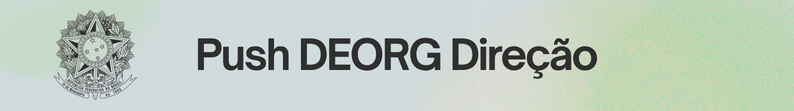
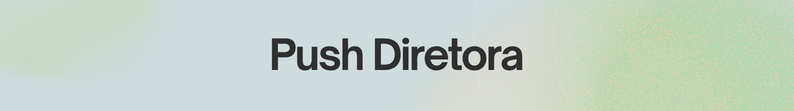
update: troca da imagem topo do email

Changed region(s): [[0.2418, 0.3243, 0.7557, 0.7297], [0.0605, 0.1081, 0.1814, 0.8919]]

diff --git a/src/checker.js b/src/checker.js
@@ -8,7 +8,7 @@ const path = require('path');
 /**
  * Retorna a data atual no formato DD-MM-AAAA
  * ajustada para o fuso horário de Brasília.
-*/
+
 function getTodayBR() {
   const now = new Date();
 
@@ -22,6 +22,7 @@ function getTodayBR() {
 
   return `${day}-${month}-${year}`;
 }
+*/
 
 function getYesterdayBR() {
   const now = new Date();
@@ -44,9 +45,9 @@ function getYesterdayBR() {
 // APENAS TESTE
 // FUNCAO PARA RODAR DATA ESPECIFICA
 // DESCOMENTAR OU COMENTAR
-// function getTodayBR() {
-//   return '01-06-2026';
-// }
+function getTodayBR() {
+  return '01-06-2026';
+}
 
 /**
  * Monta a URL de pesquisa do DOU
